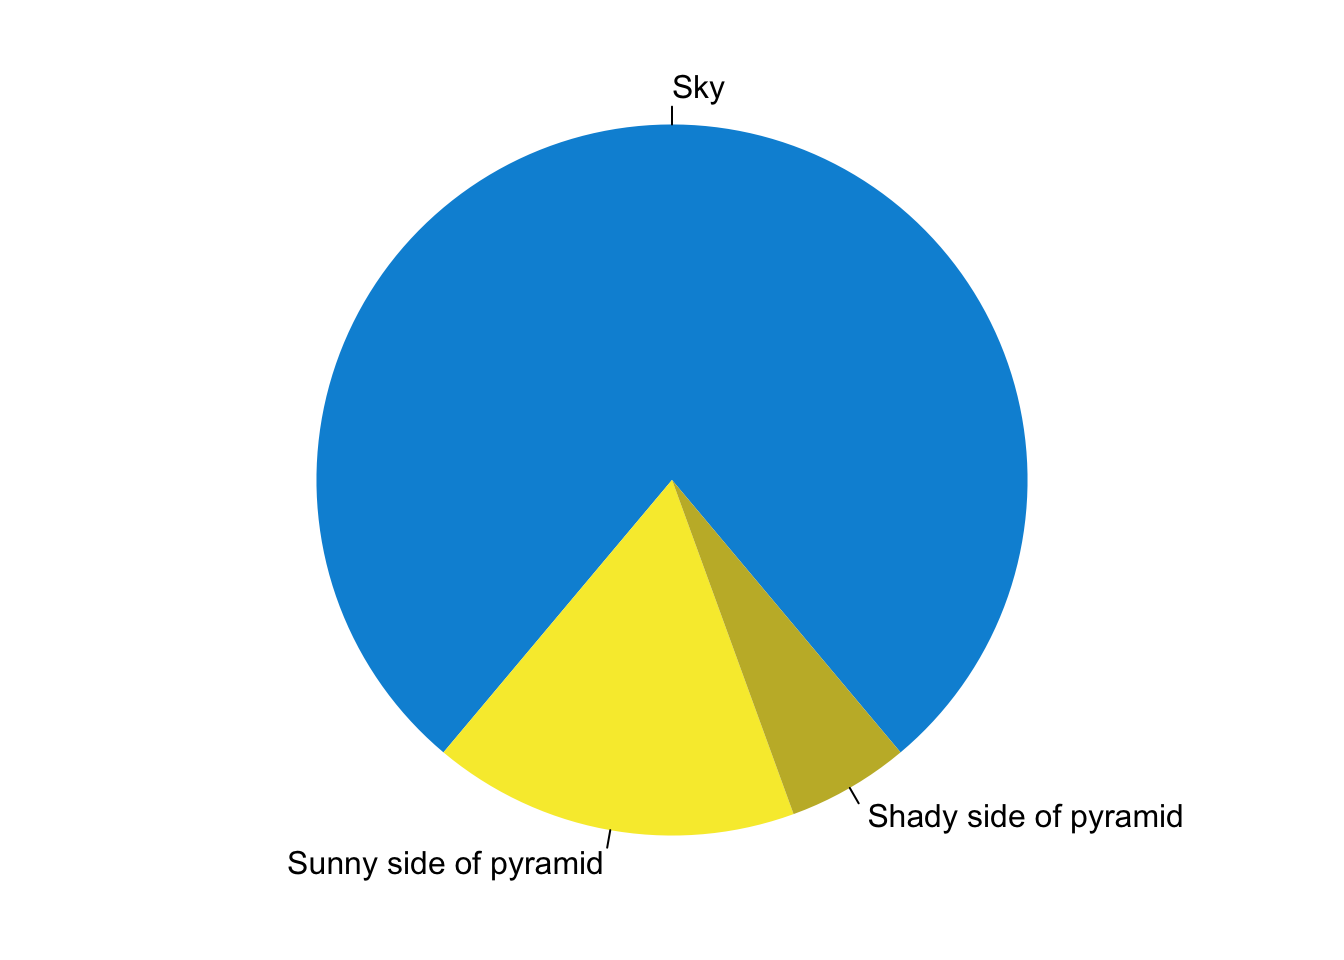
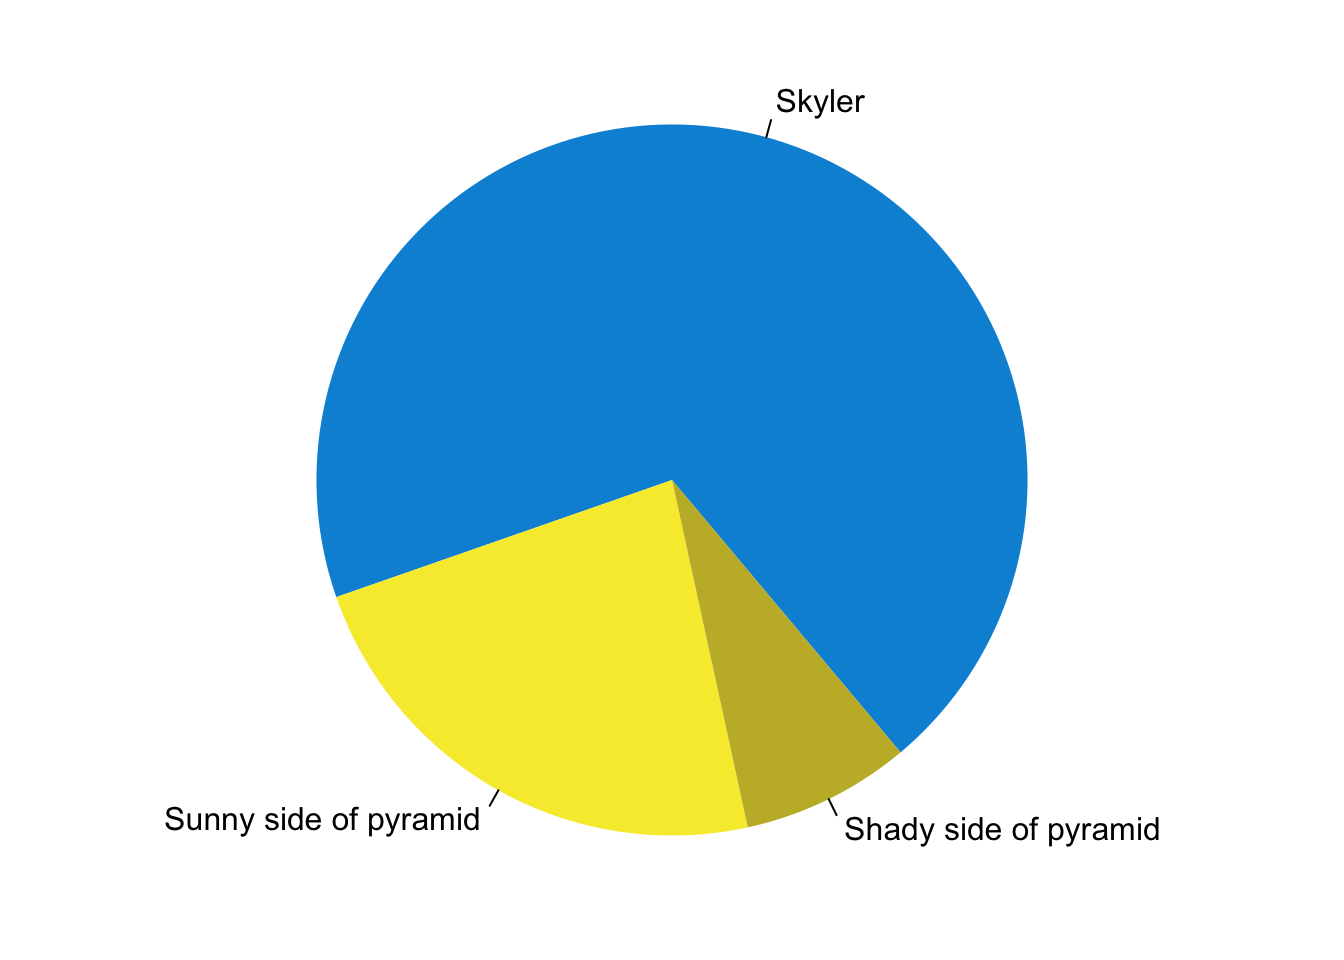
skyler side of the pyramid

diff --git a/public/2015/07/23/hello-r-markdown/index.html b/public/2015/07/23/hello-r-markdown/index.html
@@ -102,8 +102,8 @@ fit
 <p>You can also embed plots. See Figure <a href="#fig:pie">1</a> for example:</p>
 <pre class="r"><code>par(mar = c(0, 1, 0, 1))
 pie(
-  c(280, 60, 20),
-  c(&#39;Sky&#39;, &#39;Sunny side of pyramid&#39;, &#39;Shady side of pyramid&#39;),
+  c(180, 60, 20),
+  c(&#39;Skyler&#39;, &#39;Sunny side of pyramid&#39;, &#39;Shady side of pyramid&#39;),
   col = c(&#39;#0292D8&#39;, &#39;#F7EA39&#39;, &#39;#C4B632&#39;),
   init.angle = -50, border = NA
 )</code></pre>

diff --git a/content/post/2015-07-23-r-rmarkdown.html b/content/post/2015-07-23-r-rmarkdown.html
@@ -35,8 +35,8 @@ fit
 <p>You can also embed plots. See Figure <a href="#fig:pie">1</a> for example:</p>
 <pre class="r"><code>par(mar = c(0, 1, 0, 1))
 pie(
-  c(280, 60, 20),
-  c(&#39;Sky&#39;, &#39;Sunny side of pyramid&#39;, &#39;Shady side of pyramid&#39;),
+  c(180, 60, 20),
+  c(&#39;Skyler&#39;, &#39;Sunny side of pyramid&#39;, &#39;Shady side of pyramid&#39;),
   col = c(&#39;#0292D8&#39;, &#39;#F7EA39&#39;, &#39;#C4B632&#39;),
   init.angle = -50, border = NA
 )</code></pre>
